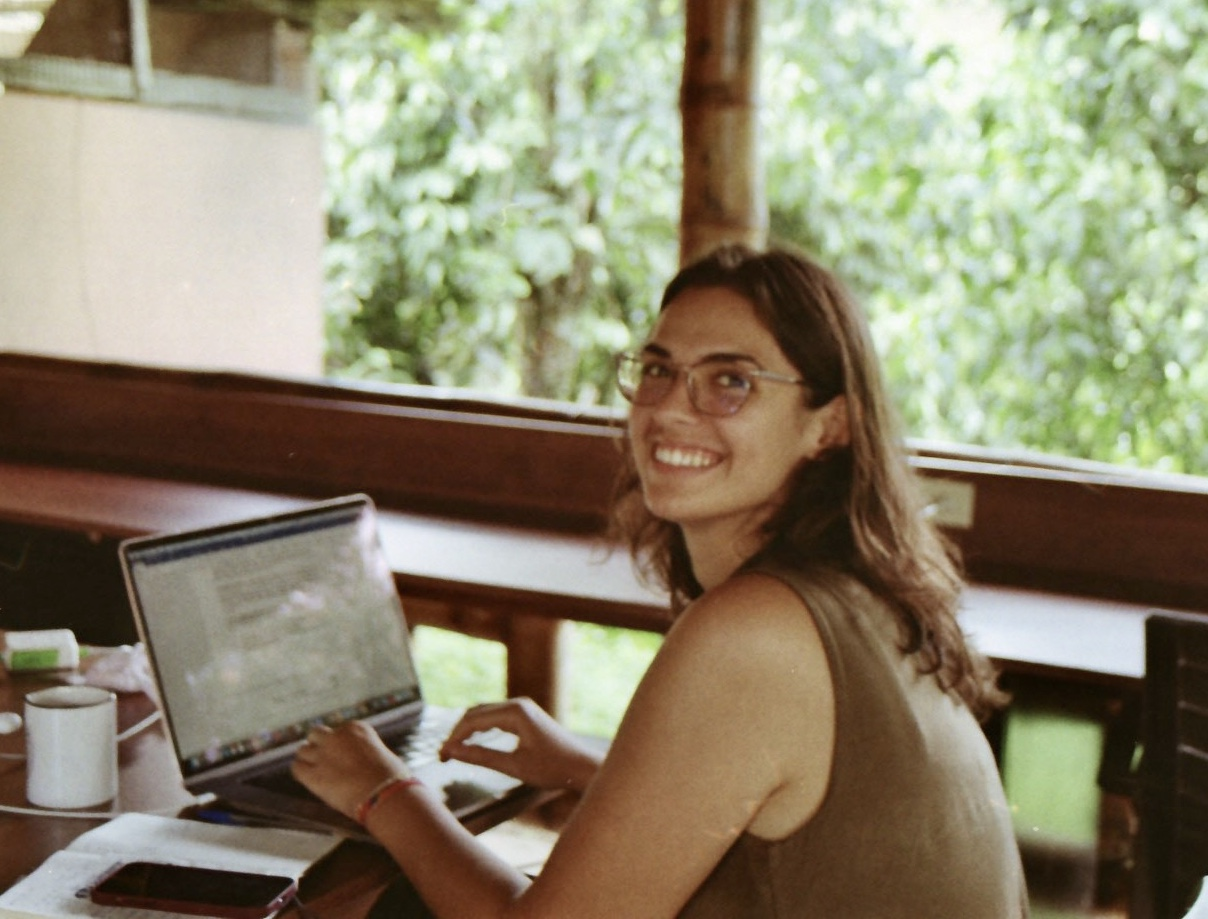
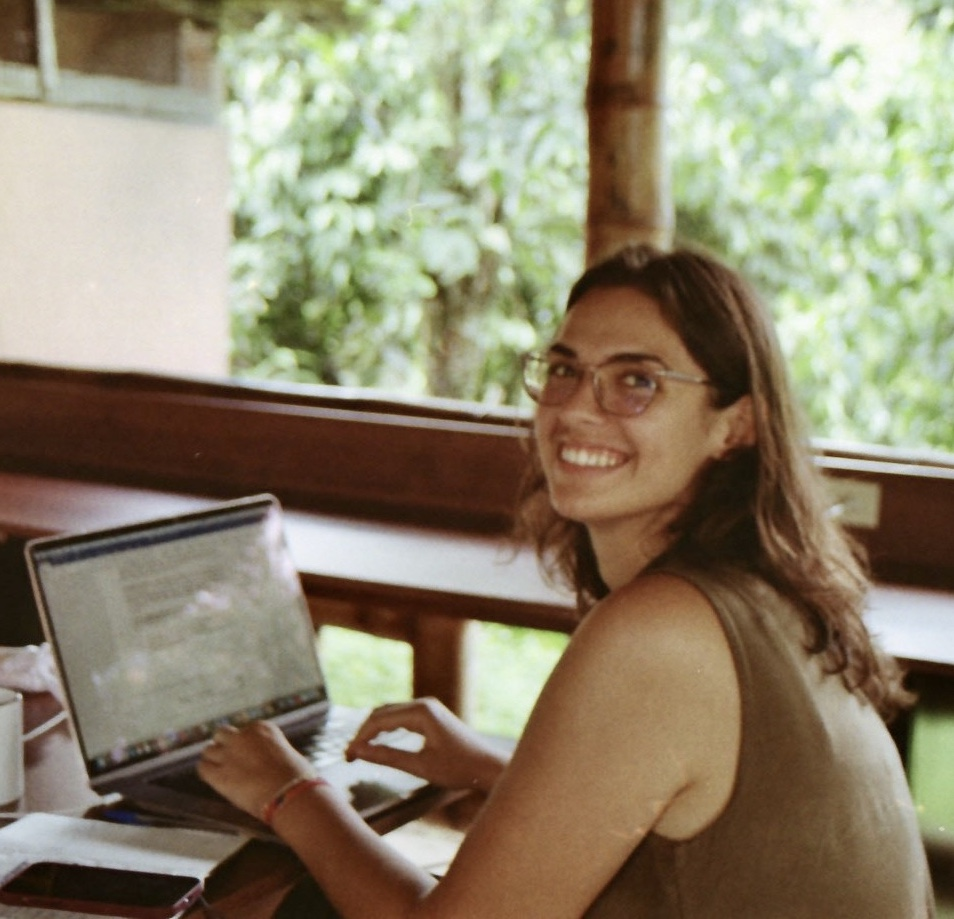
changes

diff --git a/index.html b/index.html
@@ -50,8 +50,17 @@
 
         h1 {
             font-family: 'Staatliches';
-            color: #131313;
+            font-weight: bold;
+            color: #000000;
             margin-top: 0px; /* Moves h1 15px above its default position */
+        }
+
+        h2 {
+            font-family: 'Lato';
+            font-weight: bold;
+            color: #0c6bd2;
+            margin-top: 0px; 
+            /* font-size: 22px; */
         }
 
         img.logo {
@@ -70,7 +79,7 @@
         img.profile {
             float: left;
             margin-right: 20px; /* Add space between the image and the text */
-            max-width: 450px; /* Make the profile image larger */
+            max-width: 400px; /* Make the profile image larger */
             height: auto; /* Maintains the aspect ratio */
         }
 
@@ -105,10 +114,11 @@
                 margin-left: 0;
             }
 
-            .logo {
+            img.logo {
                 position: relative;
                 display: block;
                 margin: 0 auto;
+                margin-bottom: 25px;
             }
 
             .profile-container {
@@ -117,14 +127,20 @@
             }
 
             img.profile {
+                position: relative;
                 float: none;
                 margin-right: 0;
                 display: block;
                 margin: 0 auto;
+                width: 300px;
             }
 
             p {
                 text-align: center;
+            }
+            h2 {
+                text-align: center;
+                margin-top: 20px;
             }
         }
     </style>
@@ -146,11 +162,12 @@
 
     <main>
         <section id="bio">
-            <!-- <h1>about me</h1> -->
+            <h1>about me</h1>
             <div class="profile-container">
                 <img src="./images/profile.jpg" alt="Ina Shkurti Picture" class="profile">
-                <h1>Ina Shkurti  /  About Me</h1>
-                <p>I am a geographer and GIS specialist with a decade of experience working in Amazonia. I work with organizations, institutions, and communities engaged in territorial and cultural mapping. I am particularly interested in the creation of web maps, interactive map platforms (online and offline), geospatial data analysis and geo-storytelling.</p>
+                <h2>Ina Shkurti</h2>
+                <p>I am a geographer and GIS specialist with a decade of experience working in Latin America and Amazonia. I like to work with organizations, institutions, and communities engaged in territorial and cultural mapping. I am particularly interested in the creation of web maps, interactive map platforms (online and offline), geospatial data analysis and geo-storytelling.</p>
+                <p>I have a BA in Geography and a Certificate in Geographic Information Systems from the University of Massachussets Amherst, and I am currently pursuing a PhD in Geography at the University of North Carolina at Chapel Hill.</p>
             </div>
         </section>
     </main>

diff --git a/consulting.html b/consulting.html
@@ -93,6 +93,7 @@
                 position: relative;
                 display: block;
                 margin: 0 auto;
+                margin-bottom: 25px;
             }
         }
     </style>

diff --git a/research.html b/research.html
@@ -93,6 +93,7 @@
                 position: relative;
                 display: block;
                 margin: 0 auto;
+                margin-bottom: 25px;
             }
         }
     </style>
